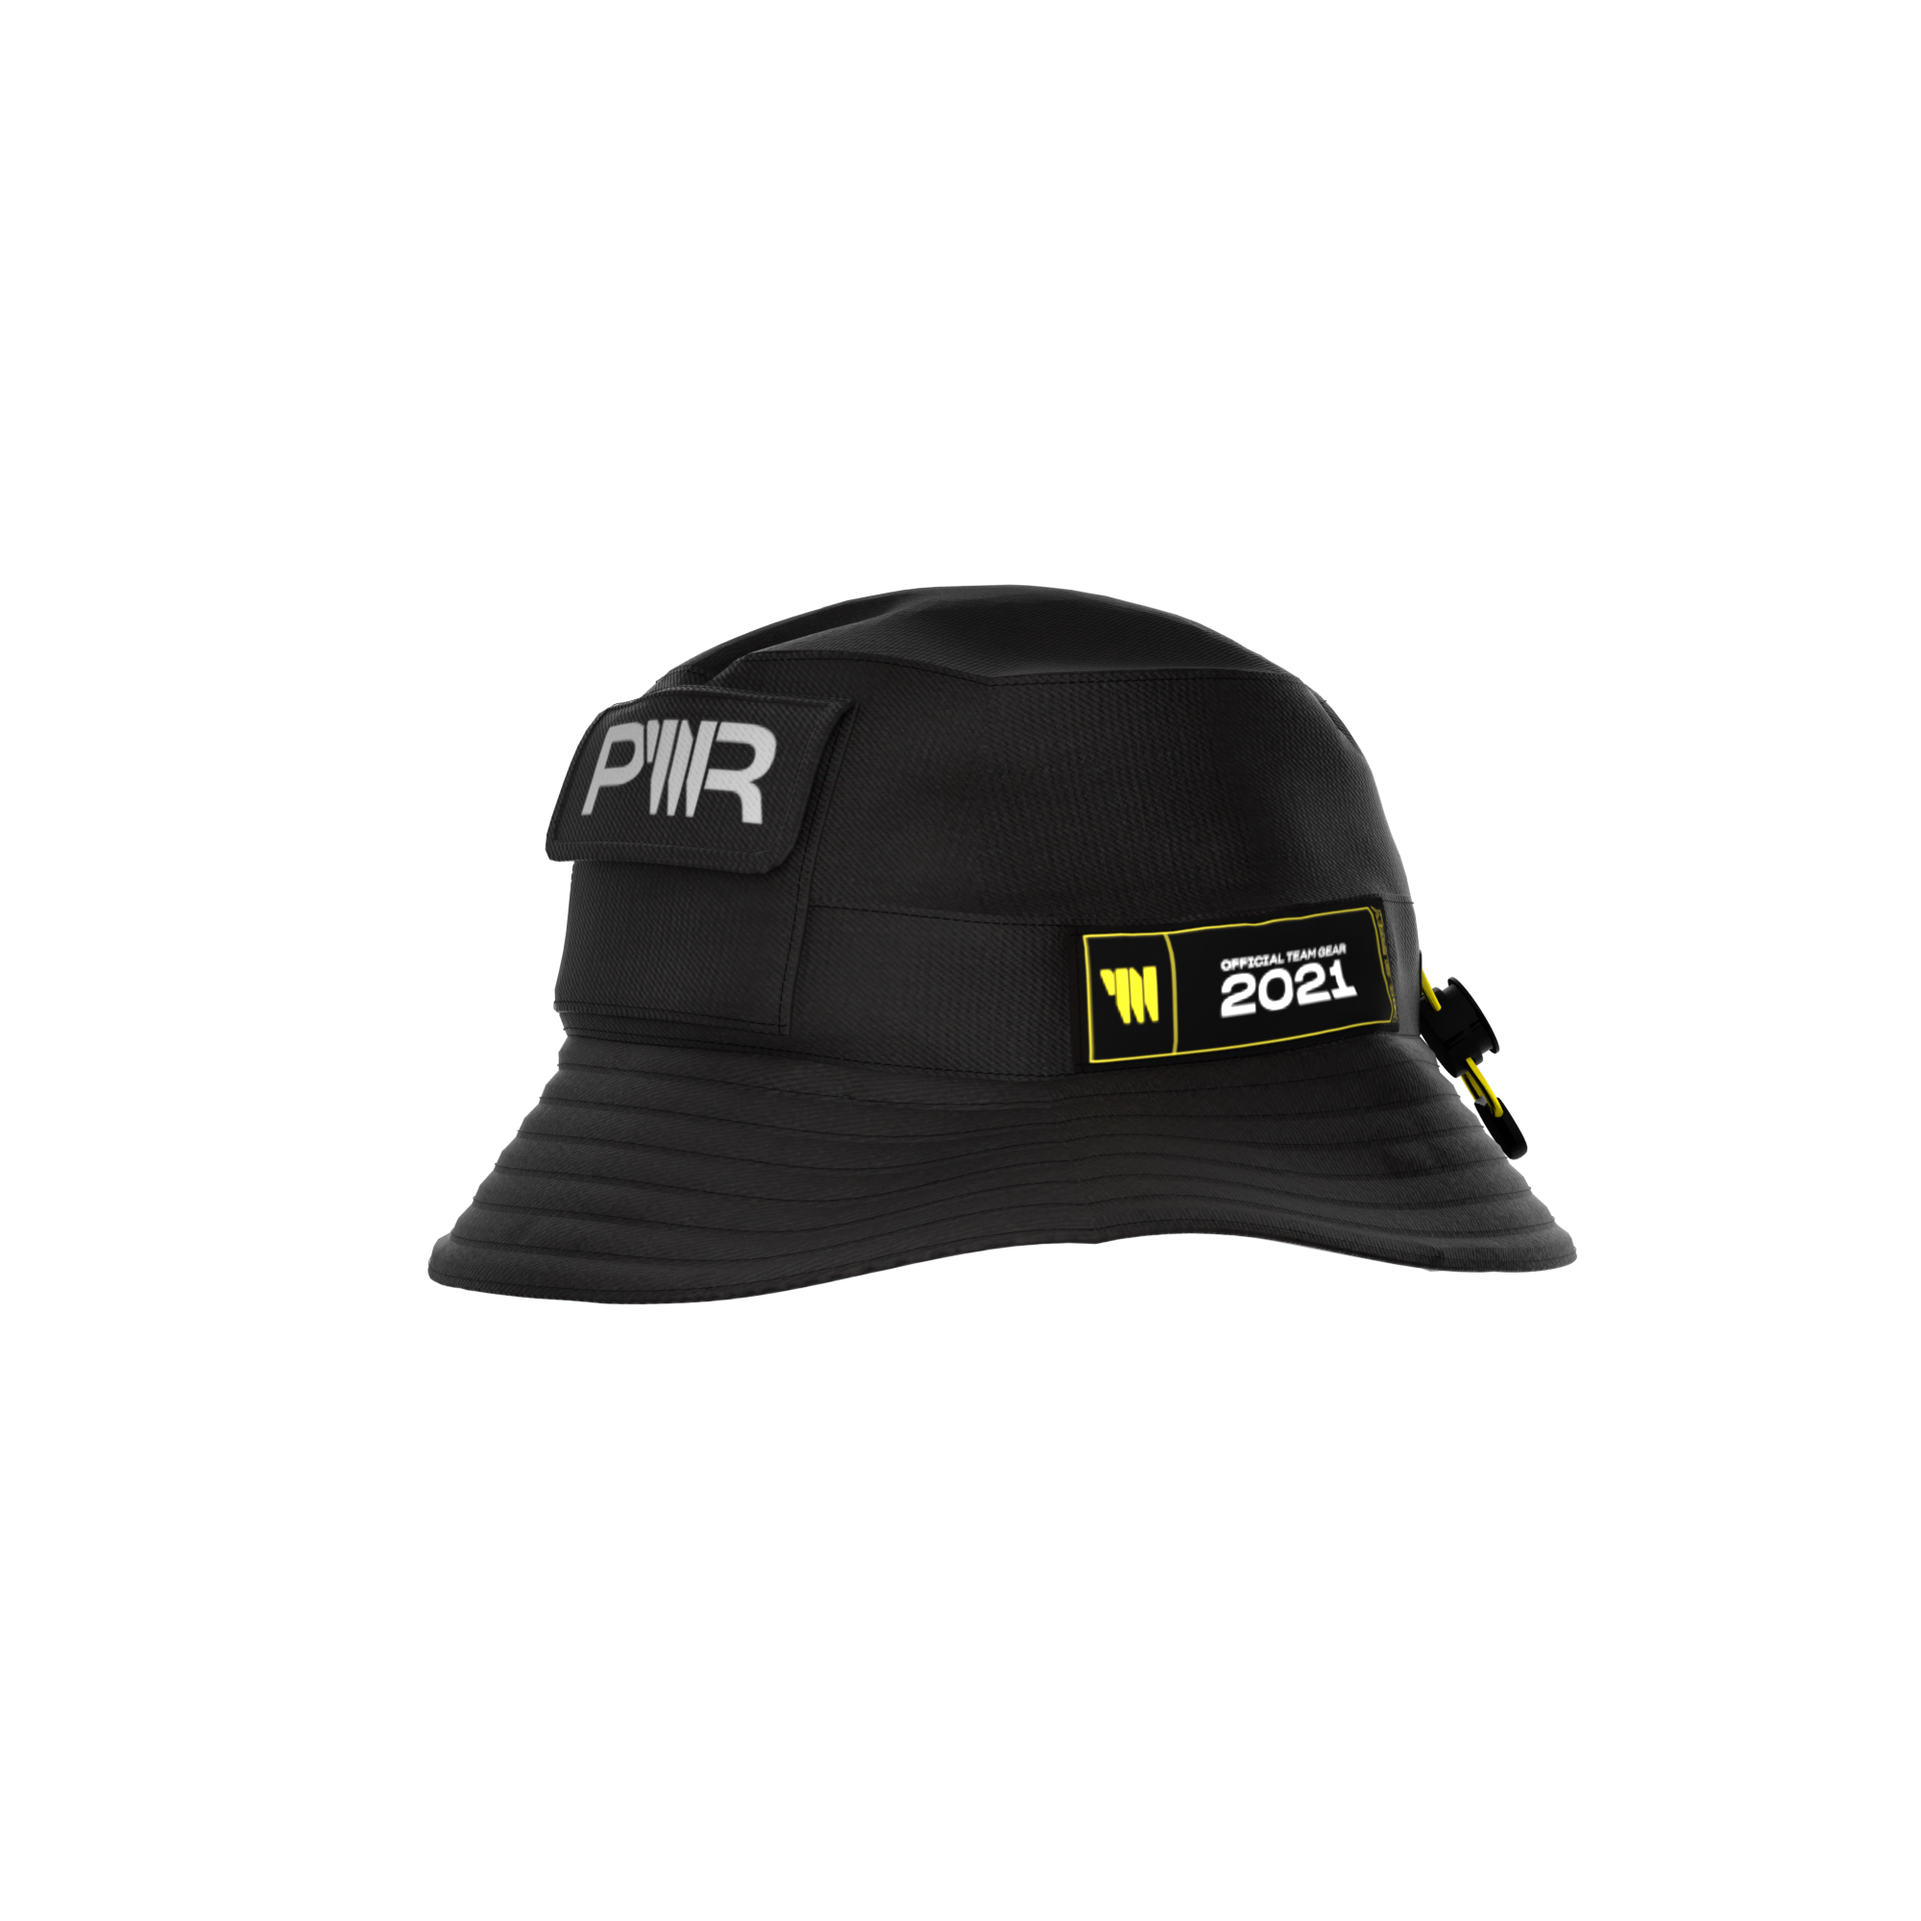
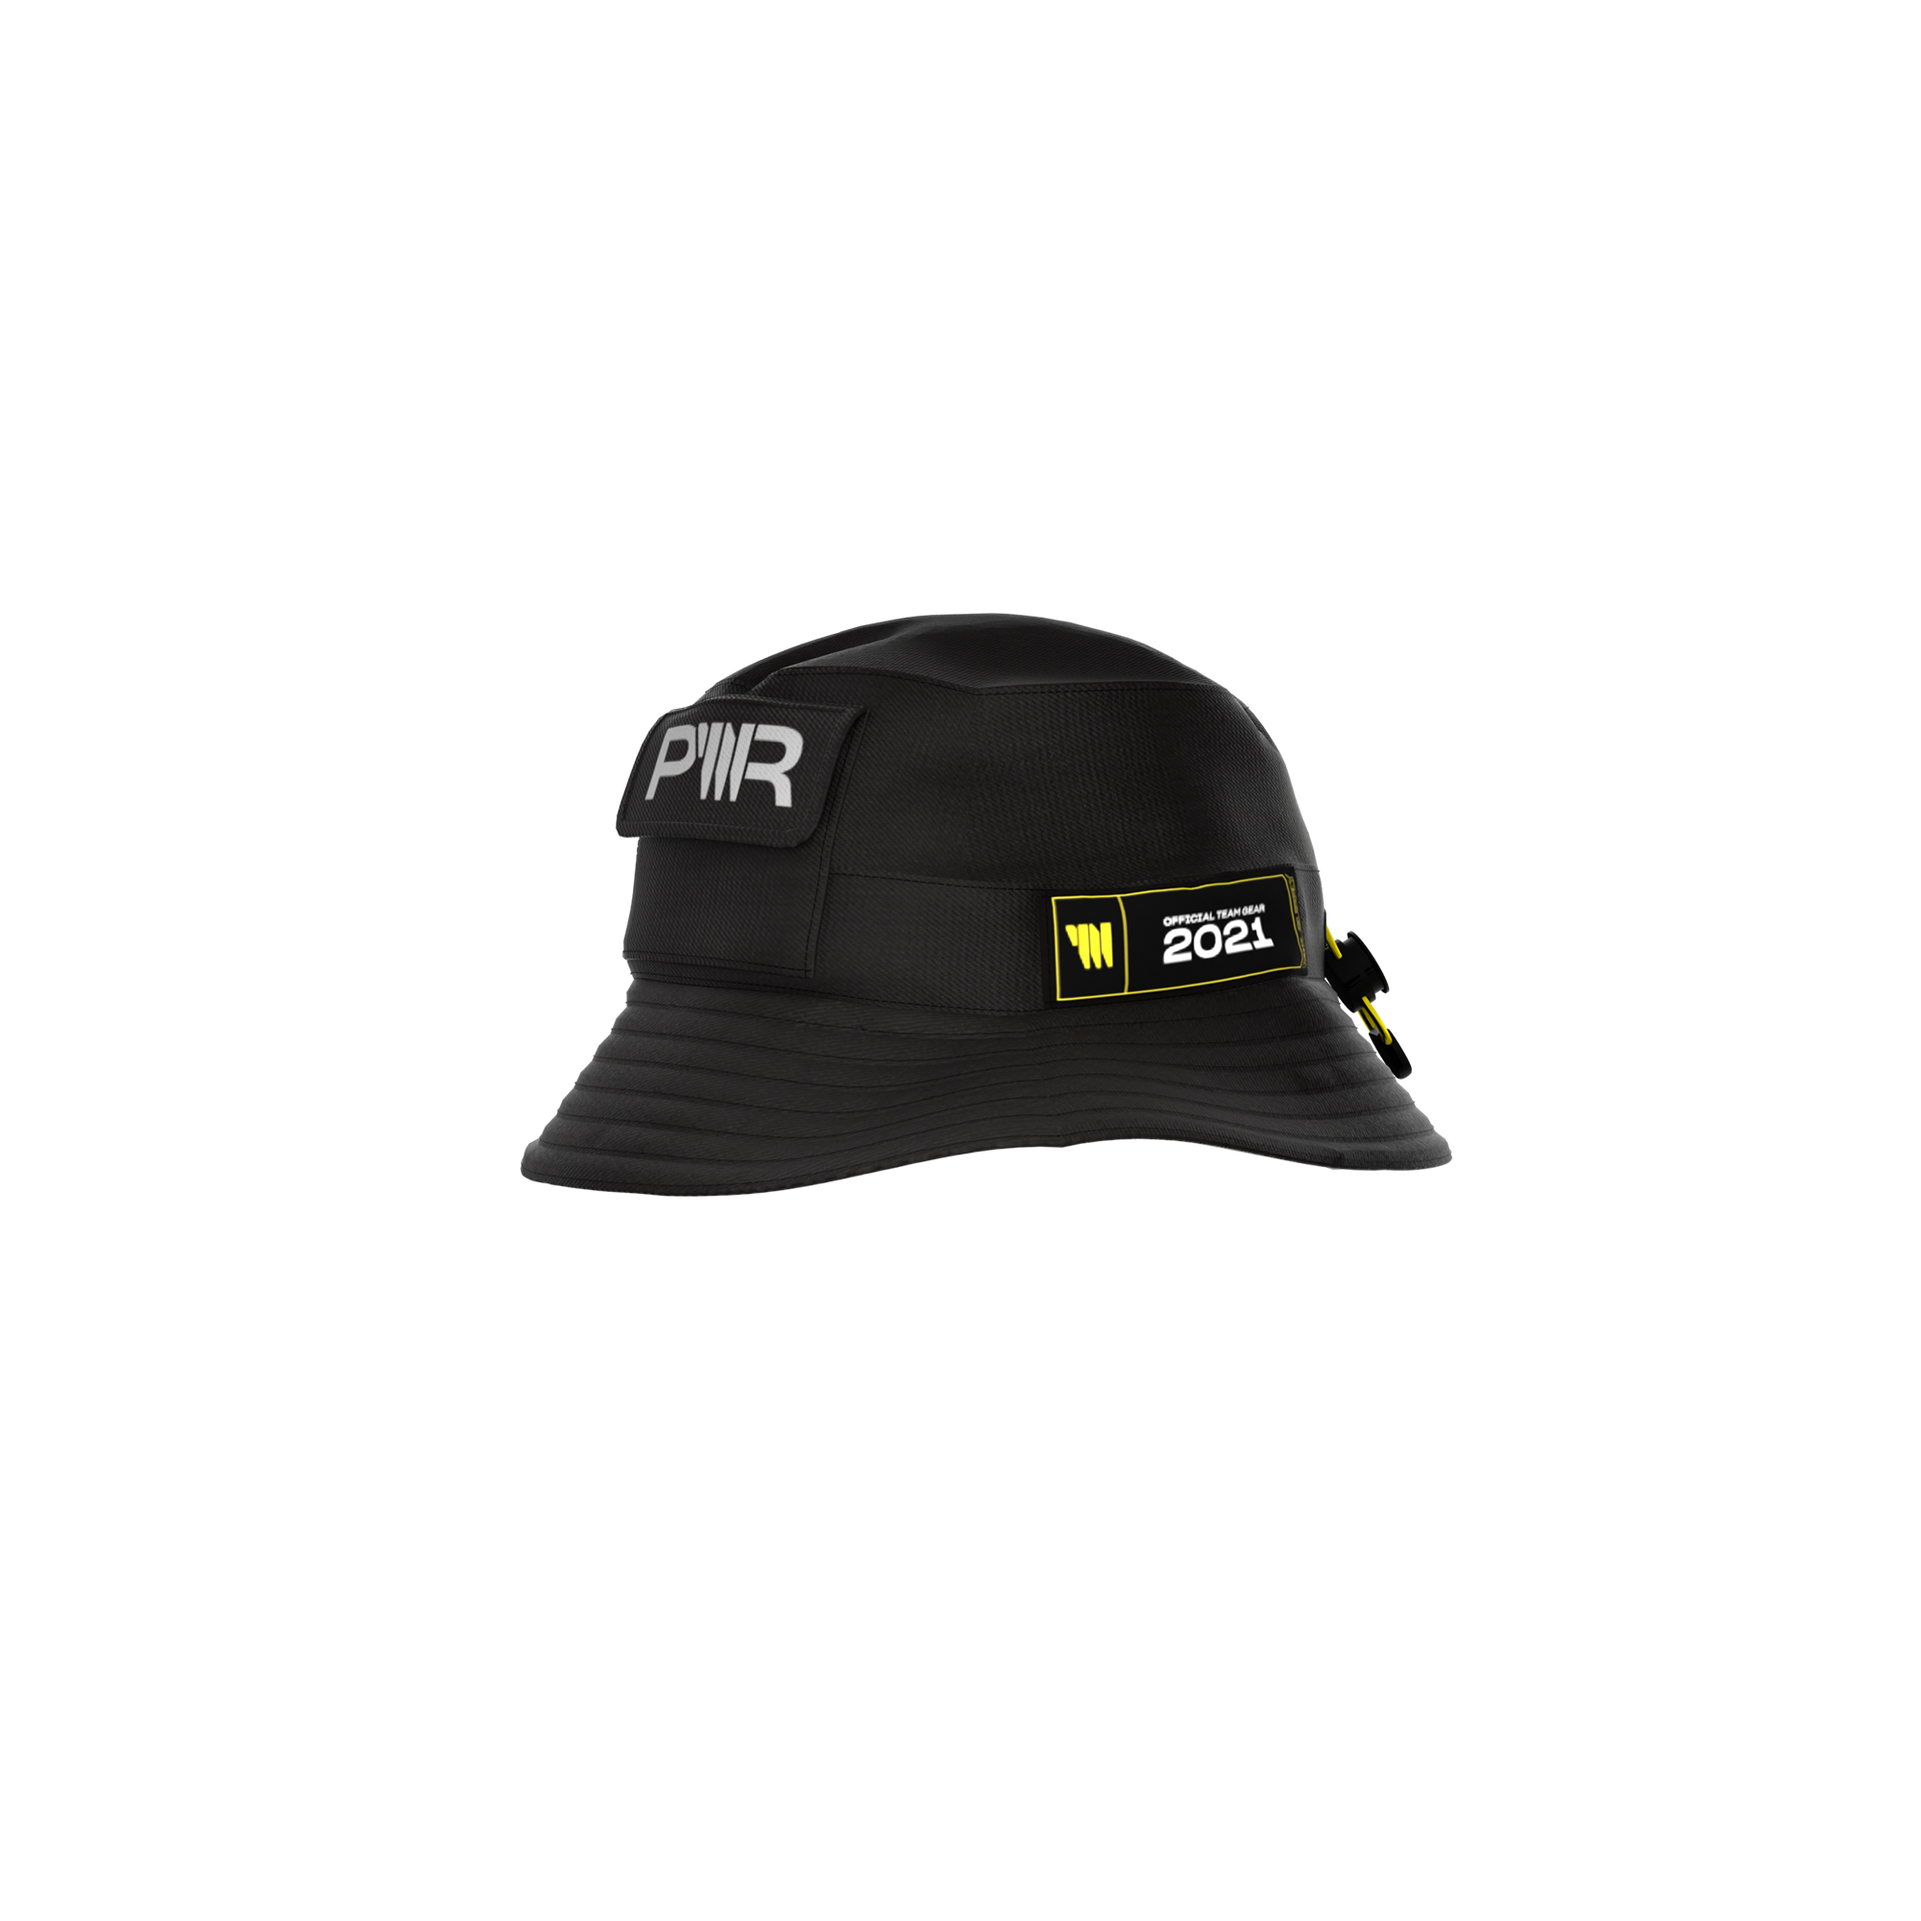
complete da section

Changed region(s): [[0.217, 0.279, 0.837, 0.682]]

diff --git a/pages/digitalapparel.html b/pages/digitalapparel.html
@@ -378,19 +378,19 @@
         <div id="carousel8" class="carousel slide" data-bs-ride="carousel" data-bs-pause=false data-bs-interval="4000">
           <div class="carousel-inner">
             <div class="carousel-item active">
-              <img src=" ../assets/images/digitalapparel/CloseUp_00.jpg" class="d-block vh-100 vw-100"
+              <img src=" ../assets/images/digitalapparel/CloseUp_00_spreaded.jpg" class="d-block vh-100 vw-100"
                 style="object-fit: cover;" />
             </div>
             <div class="carousel-item ">
-              <img src=" ../assets/images/digitalapparel/CloseUp_01.jpg" class="d-block vh-100 vw-100"
+              <img src=" ../assets/images/digitalapparel/CloseUp_01_spreaded.jpg" class="d-block vh-100 vw-100"
                 style="object-fit: cover;" />
             </div>
             <div class="carousel-item ">
-              <img src=" ../assets/images/digitalapparel/CloseUp_02.jpg" class="d-block vh-100 vw-100"
+              <img src=" ../assets/images/digitalapparel/CloseUp_02_spreaded.jpg" class="d-block vh-100 vw-100"
                 style="object-fit: cover;" />
             </div>
             <div class="carousel-item ">
-              <img src=" ../assets/images/digitalapparel/CloseUp_03.jpg" class="d-block vh-100 vw-100"
+              <img src=" ../assets/images/digitalapparel/CloseUp_03_spreaded.jpg" class="d-block vh-100 vw-100"
                 style="object-fit: cover;" />
             </div>
           </div>
